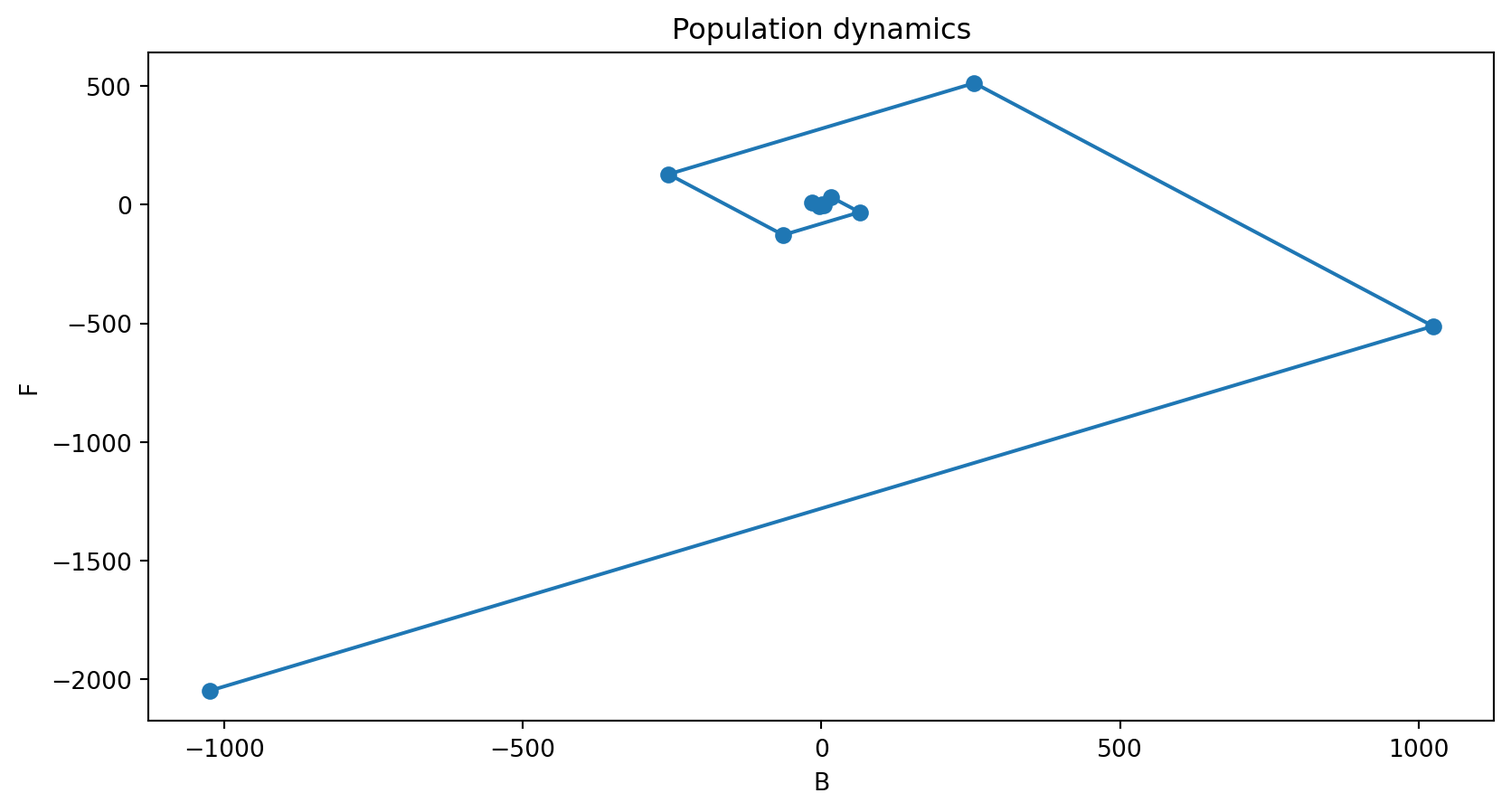
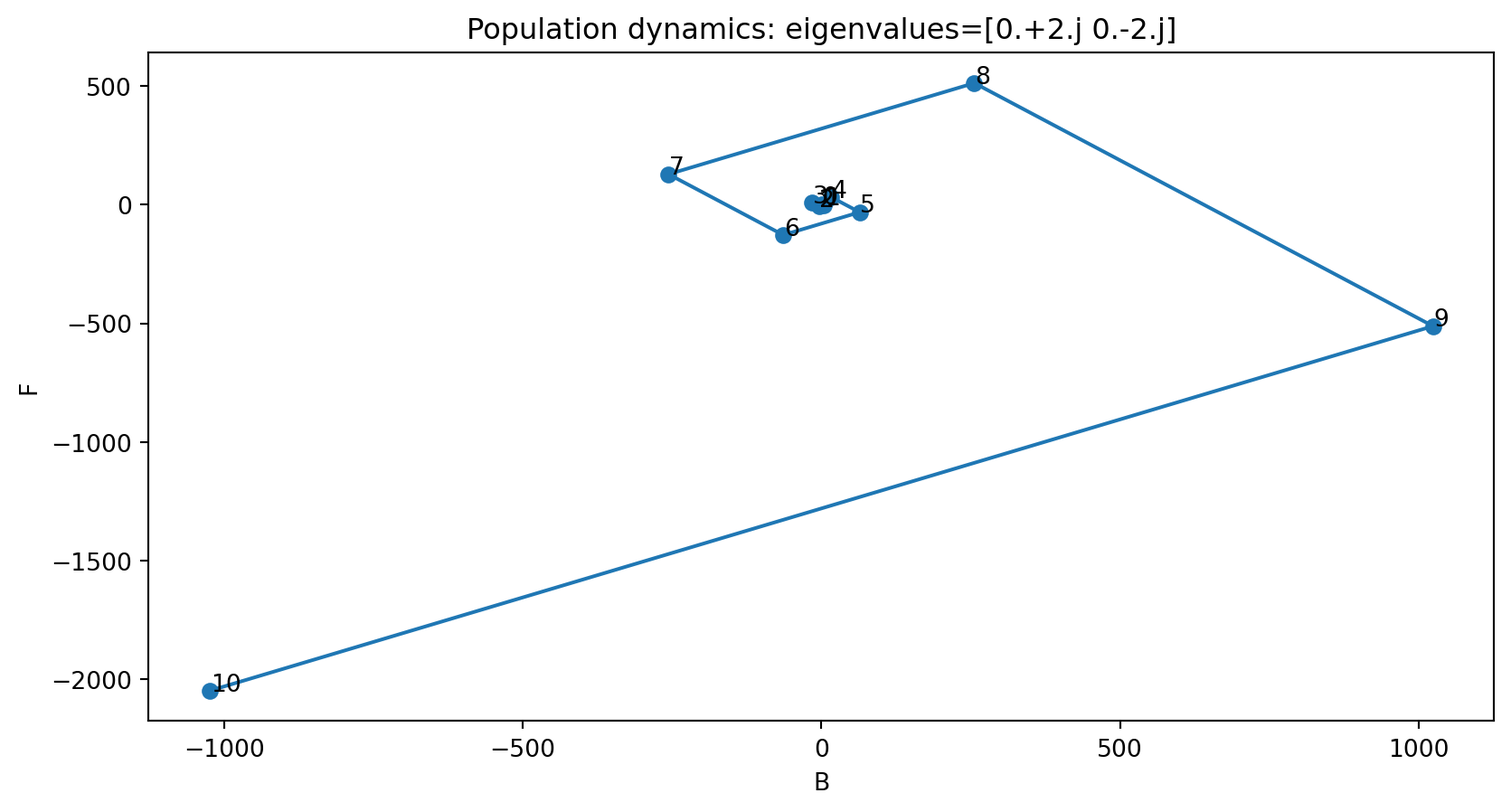
automatically committed render output

Changed region(s): [[0.3112, 0.0, 0.778, 0.0624], [0.9336, 0.3742, 0.9647, 0.4053], [0.529, 0.2183, 0.5601, 0.2494]]

diff --git a/lectures/ch5lecture1-notes.html b/lectures/ch5lecture1-notes.html
@@ -612,7 +612,7 @@
   }
 
   // Store cell data
-  globalThis.qpyodideCellDetails = [{"id":1,"options":{"out-width":"700px","context":"interactive","comment":"","output":"true","results":"markup","classes":"","out-height":"","warning":"true","fig-height":5,"message":"true","autorun":"","read-only":"false","dpi":72,"fig-width":7,"label":"","fig-cap":""},"code":"import matplotlib.pyplot as plt\nimport numpy as np\ndef plot_iterations(x0, A, n1=10, n2=1):\n  plt.clf()\n  x = x0\n  x_vals = [x]\n  for i in range(n1):\n    for j in range(n2):\n      x = A @ x\n    x_vals.append(x)\n  x_vals = np.array(x_vals)\n  plt.plot(x_vals[:,0], x_vals[:,1], 'o-',)\n  for i, txt in enumerate(range(len(x_vals))):\n    plt.annotate(txt, (x_vals[i,0]+1, x_vals[i,1]+1))\n  #plt.plot(x_vals[:,0], x_vals[:,1], 'o-')\n  plt.xlabel('B')\n  plt.ylabel('F')\n  plt.title('Population dynamics: eigenvalues='+str(np.linalg.eig(A)[0]))\n  plt.show()"},{"id":2,"options":{"out-width":"700px","context":"interactive","comment":"","output":"true","results":"markup","classes":"","out-height":"","warning":"true","fig-height":5,"message":"true","autorun":"","read-only":"false","dpi":72,"fig-width":7,"label":"","fig-cap":""},"code":"A = np.array([[0, 2], [-2, 0]])\nplot_iterations(np.array([1,2]), A)"}];
+  globalThis.qpyodideCellDetails = [{"id":1,"options":{"message":"true","read-only":"false","dpi":72,"classes":"","fig-width":7,"warning":"true","context":"interactive","output":"true","comment":"","out-height":"","fig-cap":"","fig-height":5,"autorun":"","results":"markup","out-width":"700px","label":""},"code":"import matplotlib.pyplot as plt\nimport numpy as np\ndef plot_iterations(x0, A, n1=10, n2=1):\n  plt.clf()\n  x = x0\n  x_vals = [x]\n  for i in range(n1):\n    for j in range(n2):\n      x = A @ x\n    x_vals.append(x)\n  x_vals = np.array(x_vals)\n  plt.plot(x_vals[:,0], x_vals[:,1], 'o-',)\n  for i, txt in enumerate(range(len(x_vals))):\n    plt.annotate(txt, (x_vals[i,0]+1, x_vals[i,1]+1))\n  #plt.plot(x_vals[:,0], x_vals[:,1], 'o-')\n  plt.xlabel('B')\n  plt.ylabel('F')\n  plt.title('Population dynamics: eigenvalues='+str(np.linalg.eig(A)[0]))\n  plt.show()"},{"id":2,"options":{"message":"true","read-only":"false","dpi":72,"classes":"","fig-width":7,"warning":"true","context":"interactive","output":"true","comment":"","out-height":"","fig-cap":"","fig-height":5,"autorun":"","results":"markup","out-width":"700px","label":""},"code":"A = np.array([[0, 2], [-2, 0]])\nplot_iterations(np.array([1,2]), A)"}];
 
 
   </script>
@@ -1578,7 +1578,7 @@ F_{k}
 \]</span></p>
 <div class="fragment">
 <p>Find eigenvalues and eigenvectors of the transition matrix.</p>
-<div id="6082028c" class="cell" data-execution_count="2">
+<div id="52fef861" class="cell" data-execution_count="1">
 <details open="" class="code-fold">
 <summary>Code</summary>
 <div class="sourceCode cell-code" id="cb1"><pre class="sourceCode numberSource python number-lines code-with-copy"><code class="sourceCode python"><span id="cb1-1"><a></a><span class="im">import</span> numpy <span class="im">as</span> np</span>
@@ -1599,12 +1599,12 @@ Eigenvectors: [[-0.59421716 -0.83980458]
 
 </div>
 <p>Check: use Sympy to diagonalize the matrix.</p>
-<div id="2143c019" class="cell" data-execution_count="3">
+<div id="5b41fb2f" class="cell" data-execution_count="2">
 <div class="cell-output cell-output-stdout">
 <pre><code>D : Matrix([[0.858578643762691, 0], [0, 1.14142135623731]])
 P : Matrix([[0.839804577036026, 0.635068381284203], [0.542888821389189, 0.859598960745815]])</code></pre>
 </div>
-<div class="cell-output cell-output-display cell-output-markdown" data-execution_count="2">
+<div class="cell-output cell-output-display cell-output-markdown" data-execution_count="18">
 <p><span class="math inline">\(\displaystyle \left[\begin{matrix}0.6 &amp; 0.4\\-0.35 &amp; 1.4\end{matrix}\right]\)</span></p>
 </div>
 </div>
@@ -1627,7 +1627,7 @@ P : Matrix([[0.839804577036026, 0.635068381284203], [0.542888821389189, 0.859598
 
 <section id="section-3" class="title-slide slide level2 center">
 <h2><em></em></h2>
-<div id="7dcdba87" class="cell" data-execution_count="4">
+<div id="31e0a2f8" class="cell" data-execution_count="3">
 <details open="" class="code-fold">
 <summary>Code</summary>
 <div class="sourceCode cell-code" id="cb4"><pre class="sourceCode numberSource python number-lines code-with-copy"><code class="sourceCode python"><span id="cb4-1"><a></a>x0 <span class="op">=</span> np.array([<span class="dv">100</span>, <span class="dv">10000</span>]) </span>
@@ -1660,7 +1660,7 @@ P : Matrix([[0.839804577036026, 0.635068381284203], [0.542888821389189, 0.859598
 <section id="section-4" class="title-slide slide level2 center">
 <h2><em></em></h2>
 <p>Different starting points…</p>
-<div id="22b431dc" class="cell" data-execution_count="5">
+<div id="ea1f3a9a" class="cell" data-execution_count="4">
 <details open="" class="code-fold">
 <summary>Code</summary>
 <div class="sourceCode cell-code" id="cb6"><pre class="sourceCode numberSource python number-lines code-with-copy"><code class="sourceCode python"><span id="cb6-1"><a></a>x0 <span class="op">=</span> eigvecs_sorted[<span class="dv">0</span>]<span class="op">*-</span><span class="dv">1000</span></span>
@@ -1684,7 +1684,7 @@ P : Matrix([[0.839804577036026, 0.635068381284203], [0.542888821389189, 0.859598
 <section id="section-5" class="title-slide slide level2 center">
 <h2><em></em></h2>
 <p>What if we start with the second eigenvector?</p>
-<div id="b87eed78" class="cell" data-execution_count="6">
+<div id="a1058286" class="cell" data-execution_count="5">
 <details open="" class="code-fold">
 <summary>Code</summary>
 <div class="sourceCode cell-code" id="cb8"><pre class="sourceCode numberSource python number-lines code-with-copy"><code class="sourceCode python"><span id="cb8-1"><a></a>x0 <span class="op">=</span> eigvecs_sorted[<span class="dv">1</span>]<span class="op">*-</span><span class="dv">1000</span></span>
@@ -1705,7 +1705,7 @@ P : Matrix([[0.839804577036026, 0.635068381284203], [0.542888821389189, 0.859598
 </div>
 <div class="fragment">
 <p>Looks good so far, doesn’t blow up. But if we continue (only printing results every 10 years now):</p>
-<div id="4bdbedf9" class="cell" data-execution_count="7">
+<div id="bd284d43" class="cell" data-execution_count="6">
 <details open="" class="code-fold">
 <summary>Code</summary>
 <div class="sourceCode cell-code" id="cb10"><pre class="sourceCode numberSource python number-lines code-with-copy"><code class="sourceCode python"><span id="cb10-1"><a></a>x0 <span class="op">=</span> eigvecs_sorted[<span class="dv">1</span>]<span class="op">*-</span><span class="dv">1000</span></span>
@@ -1740,7 +1740,7 @@ P : Matrix([[0.839804577036026, 0.635068381284203], [0.542888821389189, 0.859598
 \end{array}\right]
 \]</span></p>
 <div class="fragment">
-<div id="203aa60f" class="cell" data-execution_count="8">
+<div id="53bef8e2" class="cell" data-execution_count="7">
 <details open="" class="code-fold">
 <summary>Code</summary>
 <div class="sourceCode cell-code" id="cb12"><pre class="sourceCode numberSource python number-lines code-with-copy"><code class="sourceCode python"><span id="cb12-1"><a></a>A <span class="op">=</span> np.array([[<span class="dv">0</span>, <span class="dv">2</span>], [<span class="op">-</span><span class="dv">2</span>, <span class="dv">0</span>]])</span>
@@ -1770,26 +1770,30 @@ Eigenvectors: [[0.        -0.70710678j 0.        +0.70710678j]
 </div>
 <div class="fragment">
 <p>Let’s plot that…</p>
-<div id="b4c206b1" class="cell" data-fig="true" data-execution_count="9">
+<div id="924fcef8" class="cell" data-fig="true" data-execution_count="8">
 <details open="" class="code-fold">
 <summary>Code</summary>
 <div class="sourceCode cell-code" id="cb14"><pre class="sourceCode numberSource python number-lines code-with-copy"><code class="sourceCode python"><span id="cb14-1"><a></a><span class="im">import</span> matplotlib.pyplot <span class="im">as</span> plt</span>
 <span id="cb14-2"><a></a></span>
 <span id="cb14-3"><a></a><span class="kw">def</span> plot_iterations(x0, A, n1<span class="op">=</span><span class="dv">10</span>, n2<span class="op">=</span><span class="dv">1</span>):</span>
-<span id="cb14-4"><a></a>  x <span class="op">=</span> x0</span>
-<span id="cb14-5"><a></a>  x_vals <span class="op">=</span> [x]</span>
-<span id="cb14-6"><a></a>  <span class="cf">for</span> i <span class="kw">in</span> <span class="bu">range</span>(n1):</span>
-<span id="cb14-7"><a></a>    <span class="cf">for</span> j <span class="kw">in</span> <span class="bu">range</span>(n2):</span>
-<span id="cb14-8"><a></a>      x <span class="op">=</span> A <span class="op">@</span> x</span>
-<span id="cb14-9"><a></a>    x_vals.append(x)</span>
-<span id="cb14-10"><a></a>  x_vals <span class="op">=</span> np.array(x_vals)</span>
-<span id="cb14-11"><a></a>  plt.plot(x_vals[:,<span class="dv">0</span>], x_vals[:,<span class="dv">1</span>], <span class="st">'o-'</span>)</span>
-<span id="cb14-12"><a></a>  plt.xlabel(<span class="st">'B'</span>)</span>
-<span id="cb14-13"><a></a>  plt.ylabel(<span class="st">'F'</span>)</span>
-<span id="cb14-14"><a></a>  plt.title(<span class="st">'Population dynamics'</span>)</span>
-<span id="cb14-15"><a></a>  plt.show()</span>
-<span id="cb14-16"><a></a></span>
-<span id="cb14-17"><a></a>plot_iterations(np.array([<span class="dv">1</span>,<span class="dv">2</span>]), A)</span></code><button title="Copy to Clipboard" class="code-copy-button"><i class="bi"></i></button></pre></div>
+<span id="cb14-4"><a></a>  plt.clf()</span>
+<span id="cb14-5"><a></a>  x <span class="op">=</span> x0</span>
+<span id="cb14-6"><a></a>  x_vals <span class="op">=</span> [x]</span>
+<span id="cb14-7"><a></a>  <span class="cf">for</span> i <span class="kw">in</span> <span class="bu">range</span>(n1):</span>
+<span id="cb14-8"><a></a>    <span class="cf">for</span> j <span class="kw">in</span> <span class="bu">range</span>(n2):</span>
+<span id="cb14-9"><a></a>      x <span class="op">=</span> A <span class="op">@</span> x</span>
+<span id="cb14-10"><a></a>    x_vals.append(x)</span>
+<span id="cb14-11"><a></a>  x_vals <span class="op">=</span> np.array(x_vals)</span>
+<span id="cb14-12"><a></a>  plt.plot(x_vals[:,<span class="dv">0</span>], x_vals[:,<span class="dv">1</span>], <span class="st">'o-'</span>,)</span>
+<span id="cb14-13"><a></a>  <span class="cf">for</span> i, txt <span class="kw">in</span> <span class="bu">enumerate</span>(<span class="bu">range</span>(<span class="bu">len</span>(x_vals))):</span>
+<span id="cb14-14"><a></a>    plt.annotate(txt, (x_vals[i,<span class="dv">0</span>]<span class="op">+</span><span class="dv">1</span>, x_vals[i,<span class="dv">1</span>]<span class="op">+</span><span class="dv">1</span>))</span>
+<span id="cb14-15"><a></a>  <span class="co">#plt.plot(x_vals[:,0], x_vals[:,1], 'o-')</span></span>
+<span id="cb14-16"><a></a>  plt.xlabel(<span class="st">'B'</span>)</span>
+<span id="cb14-17"><a></a>  plt.ylabel(<span class="st">'F'</span>)</span>
+<span id="cb14-18"><a></a>  plt.title(<span class="st">'Population dynamics: eigenvalues='</span><span class="op">+</span><span class="bu">str</span>(np.linalg.eig(A)[<span class="dv">0</span>]))</span>
+<span id="cb14-19"><a></a>  plt.show()</span>
+<span id="cb14-20"><a></a></span>
+<span id="cb14-21"><a></a>plot_iterations(np.array([<span class="dv">1</span>,<span class="dv">2</span>]), A)</span></code><button title="Copy to Clipboard" class="code-copy-button"><i class="bi"></i></button></pre></div>
 </details>
 <div class="cell-output cell-output-display">
 <div>
@@ -2851,7 +2855,7 @@ Eigenvectors: [[0.        -0.70710678j 0.        +0.70710678j]
         }
       );
     </script>
-    <script>var lightboxQuarto = GLightbox({"openEffect":"zoom","loop":false,"descPosition":"bottom","selector":".lightbox","closeEffect":"zoom"});
+    <script>var lightboxQuarto = GLightbox({"closeEffect":"zoom","loop":false,"selector":".lightbox","openEffect":"zoom","descPosition":"bottom"});
     window.onload = () => {
       lightboxQuarto.on('slide_before_load', (data) => {
         const { slideIndex, slideNode, slideConfig, player, trigger } = data;

diff --git a/lectures/ch5lecture1-speaker.html b/lectures/ch5lecture1-speaker.html
@@ -612,7 +612,7 @@
   }
 
   // Store cell data
-  globalThis.qpyodideCellDetails = [{"id":1,"options":{"out-width":"700px","context":"interactive","comment":"","output":"true","results":"markup","classes":"","out-height":"","warning":"true","fig-height":5,"message":"true","autorun":"","read-only":"false","dpi":72,"fig-width":7,"label":"","fig-cap":""},"code":"import matplotlib.pyplot as plt\nimport numpy as np\ndef plot_iterations(x0, A, n1=10, n2=1):\n  plt.clf()\n  x = x0\n  x_vals = [x]\n  for i in range(n1):\n    for j in range(n2):\n      x = A @ x\n    x_vals.append(x)\n  x_vals = np.array(x_vals)\n  plt.plot(x_vals[:,0], x_vals[:,1], 'o-',)\n  for i, txt in enumerate(range(len(x_vals))):\n    plt.annotate(txt, (x_vals[i,0]+1, x_vals[i,1]+1))\n  #plt.plot(x_vals[:,0], x_vals[:,1], 'o-')\n  plt.xlabel('B')\n  plt.ylabel('F')\n  plt.title('Population dynamics: eigenvalues='+str(np.linalg.eig(A)[0]))\n  plt.show()"},{"id":2,"options":{"out-width":"700px","context":"interactive","comment":"","output":"true","results":"markup","classes":"","out-height":"","warning":"true","fig-height":5,"message":"true","autorun":"","read-only":"false","dpi":72,"fig-width":7,"label":"","fig-cap":""},"code":"A = np.array([[0, 2], [-2, 0]])\nplot_iterations(np.array([1,2]), A)"}];
+  globalThis.qpyodideCellDetails = [{"id":1,"options":{"message":"true","read-only":"false","dpi":72,"classes":"","fig-width":7,"warning":"true","context":"interactive","output":"true","comment":"","out-height":"","fig-cap":"","fig-height":5,"autorun":"","results":"markup","out-width":"700px","label":""},"code":"import matplotlib.pyplot as plt\nimport numpy as np\ndef plot_iterations(x0, A, n1=10, n2=1):\n  plt.clf()\n  x = x0\n  x_vals = [x]\n  for i in range(n1):\n    for j in range(n2):\n      x = A @ x\n    x_vals.append(x)\n  x_vals = np.array(x_vals)\n  plt.plot(x_vals[:,0], x_vals[:,1], 'o-',)\n  for i, txt in enumerate(range(len(x_vals))):\n    plt.annotate(txt, (x_vals[i,0]+1, x_vals[i,1]+1))\n  #plt.plot(x_vals[:,0], x_vals[:,1], 'o-')\n  plt.xlabel('B')\n  plt.ylabel('F')\n  plt.title('Population dynamics: eigenvalues='+str(np.linalg.eig(A)[0]))\n  plt.show()"},{"id":2,"options":{"message":"true","read-only":"false","dpi":72,"classes":"","fig-width":7,"warning":"true","context":"interactive","output":"true","comment":"","out-height":"","fig-cap":"","fig-height":5,"autorun":"","results":"markup","out-width":"700px","label":""},"code":"A = np.array([[0, 2], [-2, 0]])\nplot_iterations(np.array([1,2]), A)"}];
 
 
   </script>
@@ -1578,7 +1578,7 @@ F_{k}
 \]</span></p>
 <div class="fragment">
 <p>Find eigenvalues and eigenvectors of the transition matrix.</p>
-<div id="6082028c" class="cell" data-execution_count="2">
+<div id="52fef861" class="cell" data-execution_count="1">
 <details open="" class="code-fold">
 <summary>Code</summary>
 <div class="sourceCode cell-code" id="cb1"><pre class="sourceCode numberSource python number-lines code-with-copy"><code class="sourceCode python"><span id="cb1-1"><a></a><span class="im">import</span> numpy <span class="im">as</span> np</span>
@@ -1599,12 +1599,12 @@ Eigenvectors: [[-0.59421716 -0.83980458]
 
 </div>
 <p>Check: use Sympy to diagonalize the matrix.</p>
-<div id="2143c019" class="cell" data-execution_count="3">
+<div id="5b41fb2f" class="cell" data-execution_count="2">
 <div class="cell-output cell-output-stdout">
 <pre><code>D : Matrix([[0.858578643762691, 0], [0, 1.14142135623731]])
 P : Matrix([[0.839804577036026, 0.635068381284203], [0.542888821389189, 0.859598960745815]])</code></pre>
 </div>
-<div class="cell-output cell-output-display cell-output-markdown" data-execution_count="2">
+<div class="cell-output cell-output-display cell-output-markdown" data-execution_count="18">
 <p><span class="math inline">\(\displaystyle \left[\begin{matrix}0.6 &amp; 0.4\\-0.35 &amp; 1.4\end{matrix}\right]\)</span></p>
 </div>
 </div>
@@ -1627,7 +1627,7 @@ P : Matrix([[0.839804577036026, 0.635068381284203], [0.542888821389189, 0.859598
 
 <section id="section-3" class="title-slide slide level2 center">
 <h2><em></em></h2>
-<div id="7dcdba87" class="cell" data-execution_count="4">
+<div id="31e0a2f8" class="cell" data-execution_count="3">
 <details open="" class="code-fold">
 <summary>Code</summary>
 <div class="sourceCode cell-code" id="cb4"><pre class="sourceCode numberSource python number-lines code-with-copy"><code class="sourceCode python"><span id="cb4-1"><a></a>x0 <span class="op">=</span> np.array([<span class="dv">100</span>, <span class="dv">10000</span>]) </span>
@@ -1660,7 +1660,7 @@ P : Matrix([[0.839804577036026, 0.635068381284203], [0.542888821389189, 0.859598
 <section id="section-4" class="title-slide slide level2 center">
 <h2><em></em></h2>
 <p>Different starting points…</p>
-<div id="22b431dc" class="cell" data-execution_count="5">
+<div id="ea1f3a9a" class="cell" data-execution_count="4">
 <details open="" class="code-fold">
 <summary>Code</summary>
 <div class="sourceCode cell-code" id="cb6"><pre class="sourceCode numberSource python number-lines code-with-copy"><code class="sourceCode python"><span id="cb6-1"><a></a>x0 <span class="op">=</span> eigvecs_sorted[<span class="dv">0</span>]<span class="op">*-</span><span class="dv">1000</span></span>
@@ -1684,7 +1684,7 @@ P : Matrix([[0.839804577036026, 0.635068381284203], [0.542888821389189, 0.859598
 <section id="section-5" class="title-slide slide level2 center">
 <h2><em></em></h2>
 <p>What if we start with the second eigenvector?</p>
-<div id="b87eed78" class="cell" data-execution_count="6">
+<div id="a1058286" class="cell" data-execution_count="5">
 <details open="" class="code-fold">
 <summary>Code</summary>
 <div class="sourceCode cell-code" id="cb8"><pre class="sourceCode numberSource python number-lines code-with-copy"><code class="sourceCode python"><span id="cb8-1"><a></a>x0 <span class="op">=</span> eigvecs_sorted[<span class="dv">1</span>]<span class="op">*-</span><span class="dv">1000</span></span>
@@ -1705,7 +1705,7 @@ P : Matrix([[0.839804577036026, 0.635068381284203], [0.542888821389189, 0.859598
 </div>
 <div class="fragment">
 <p>Looks good so far, doesn’t blow up. But if we continue (only printing results every 10 years now):</p>
-<div id="4bdbedf9" class="cell" data-execution_count="7">
+<div id="bd284d43" class="cell" data-execution_count="6">
 <details open="" class="code-fold">
 <summary>Code</summary>
 <div class="sourceCode cell-code" id="cb10"><pre class="sourceCode numberSource python number-lines code-with-copy"><code class="sourceCode python"><span id="cb10-1"><a></a>x0 <span class="op">=</span> eigvecs_sorted[<span class="dv">1</span>]<span class="op">*-</span><span class="dv">1000</span></span>
@@ -1740,7 +1740,7 @@ P : Matrix([[0.839804577036026, 0.635068381284203], [0.542888821389189, 0.859598
 \end{array}\right]
 \]</span></p>
 <div class="fragment">
-<div id="203aa60f" class="cell" data-execution_count="8">
+<div id="53bef8e2" class="cell" data-execution_count="7">
 <details open="" class="code-fold">
 <summary>Code</summary>
 <div class="sourceCode cell-code" id="cb12"><pre class="sourceCode numberSource python number-lines code-with-copy"><code class="sourceCode python"><span id="cb12-1"><a></a>A <span class="op">=</span> np.array([[<span class="dv">0</span>, <span class="dv">2</span>], [<span class="op">-</span><span class="dv">2</span>, <span class="dv">0</span>]])</span>
@@ -1770,26 +1770,30 @@ Eigenvectors: [[0.        -0.70710678j 0.        +0.70710678j]
 </div>
 <div class="fragment">
 <p>Let’s plot that…</p>
-<div id="b4c206b1" class="cell" data-fig="true" data-execution_count="9">
+<div id="924fcef8" class="cell" data-fig="true" data-execution_count="8">
 <details open="" class="code-fold">
 <summary>Code</summary>
 <div class="sourceCode cell-code" id="cb14"><pre class="sourceCode numberSource python number-lines code-with-copy"><code class="sourceCode python"><span id="cb14-1"><a></a><span class="im">import</span> matplotlib.pyplot <span class="im">as</span> plt</span>
 <span id="cb14-2"><a></a></span>
 <span id="cb14-3"><a></a><span class="kw">def</span> plot_iterations(x0, A, n1<span class="op">=</span><span class="dv">10</span>, n2<span class="op">=</span><span class="dv">1</span>):</span>
-<span id="cb14-4"><a></a>  x <span class="op">=</span> x0</span>
-<span id="cb14-5"><a></a>  x_vals <span class="op">=</span> [x]</span>
-<span id="cb14-6"><a></a>  <span class="cf">for</span> i <span class="kw">in</span> <span class="bu">range</span>(n1):</span>
-<span id="cb14-7"><a></a>    <span class="cf">for</span> j <span class="kw">in</span> <span class="bu">range</span>(n2):</span>
-<span id="cb14-8"><a></a>      x <span class="op">=</span> A <span class="op">@</span> x</span>
-<span id="cb14-9"><a></a>    x_vals.append(x)</span>
-<span id="cb14-10"><a></a>  x_vals <span class="op">=</span> np.array(x_vals)</span>
-<span id="cb14-11"><a></a>  plt.plot(x_vals[:,<span class="dv">0</span>], x_vals[:,<span class="dv">1</span>], <span class="st">'o-'</span>)</span>
-<span id="cb14-12"><a></a>  plt.xlabel(<span class="st">'B'</span>)</span>
-<span id="cb14-13"><a></a>  plt.ylabel(<span class="st">'F'</span>)</span>
-<span id="cb14-14"><a></a>  plt.title(<span class="st">'Population dynamics'</span>)</span>
-<span id="cb14-15"><a></a>  plt.show()</span>
-<span id="cb14-16"><a></a></span>
-<span id="cb14-17"><a></a>plot_iterations(np.array([<span class="dv">1</span>,<span class="dv">2</span>]), A)</span></code><button title="Copy to Clipboard" class="code-copy-button"><i class="bi"></i></button></pre></div>
+<span id="cb14-4"><a></a>  plt.clf()</span>
+<span id="cb14-5"><a></a>  x <span class="op">=</span> x0</span>
+<span id="cb14-6"><a></a>  x_vals <span class="op">=</span> [x]</span>
+<span id="cb14-7"><a></a>  <span class="cf">for</span> i <span class="kw">in</span> <span class="bu">range</span>(n1):</span>
+<span id="cb14-8"><a></a>    <span class="cf">for</span> j <span class="kw">in</span> <span class="bu">range</span>(n2):</span>
+<span id="cb14-9"><a></a>      x <span class="op">=</span> A <span class="op">@</span> x</span>
+<span id="cb14-10"><a></a>    x_vals.append(x)</span>
+<span id="cb14-11"><a></a>  x_vals <span class="op">=</span> np.array(x_vals)</span>
+<span id="cb14-12"><a></a>  plt.plot(x_vals[:,<span class="dv">0</span>], x_vals[:,<span class="dv">1</span>], <span class="st">'o-'</span>,)</span>
+<span id="cb14-13"><a></a>  <span class="cf">for</span> i, txt <span class="kw">in</span> <span class="bu">enumerate</span>(<span class="bu">range</span>(<span class="bu">len</span>(x_vals))):</span>
+<span id="cb14-14"><a></a>    plt.annotate(txt, (x_vals[i,<span class="dv">0</span>]<span class="op">+</span><span class="dv">1</span>, x_vals[i,<span class="dv">1</span>]<span class="op">+</span><span class="dv">1</span>))</span>
+<span id="cb14-15"><a></a>  <span class="co">#plt.plot(x_vals[:,0], x_vals[:,1], 'o-')</span></span>
+<span id="cb14-16"><a></a>  plt.xlabel(<span class="st">'B'</span>)</span>
+<span id="cb14-17"><a></a>  plt.ylabel(<span class="st">'F'</span>)</span>
+<span id="cb14-18"><a></a>  plt.title(<span class="st">'Population dynamics: eigenvalues='</span><span class="op">+</span><span class="bu">str</span>(np.linalg.eig(A)[<span class="dv">0</span>]))</span>
+<span id="cb14-19"><a></a>  plt.show()</span>
+<span id="cb14-20"><a></a></span>
+<span id="cb14-21"><a></a>plot_iterations(np.array([<span class="dv">1</span>,<span class="dv">2</span>]), A)</span></code><button title="Copy to Clipboard" class="code-copy-button"><i class="bi"></i></button></pre></div>
 </details>
 <div class="cell-output cell-output-display">
 <div>
@@ -2851,7 +2855,7 @@ Eigenvectors: [[0.        -0.70710678j 0.        +0.70710678j]
         }
       );
     </script>
-    <script>var lightboxQuarto = GLightbox({"openEffect":"zoom","loop":false,"descPosition":"bottom","selector":".lightbox","closeEffect":"zoom"});
+    <script>var lightboxQuarto = GLightbox({"closeEffect":"zoom","loop":false,"selector":".lightbox","openEffect":"zoom","descPosition":"bottom"});
     window.onload = () => {
       lightboxQuarto.on('slide_before_load', (data) => {
         const { slideIndex, slideNode, slideConfig, player, trigger } = data;

diff --git a/lectures/ch5lecture1.html b/lectures/ch5lecture1.html
@@ -612,7 +612,7 @@
   }
 
   // Store cell data
-  globalThis.qpyodideCellDetails = [{"id":1,"options":{"out-width":"700px","context":"interactive","comment":"","output":"true","results":"markup","classes":"","out-height":"","warning":"true","fig-height":5,"message":"true","autorun":"","read-only":"false","dpi":72,"fig-width":7,"label":"","fig-cap":""},"code":"import matplotlib.pyplot as plt\nimport numpy as np\ndef plot_iterations(x0, A, n1=10, n2=1):\n  plt.clf()\n  x = x0\n  x_vals = [x]\n  for i in range(n1):\n    for j in range(n2):\n      x = A @ x\n    x_vals.append(x)\n  x_vals = np.array(x_vals)\n  plt.plot(x_vals[:,0], x_vals[:,1], 'o-',)\n  for i, txt in enumerate(range(len(x_vals))):\n    plt.annotate(txt, (x_vals[i,0]+1, x_vals[i,1]+1))\n  #plt.plot(x_vals[:,0], x_vals[:,1], 'o-')\n  plt.xlabel('B')\n  plt.ylabel('F')\n  plt.title('Population dynamics: eigenvalues='+str(np.linalg.eig(A)[0]))\n  plt.show()"},{"id":2,"options":{"out-width":"700px","context":"interactive","comment":"","output":"true","results":"markup","classes":"","out-height":"","warning":"true","fig-height":5,"message":"true","autorun":"","read-only":"false","dpi":72,"fig-width":7,"label":"","fig-cap":""},"code":"A = np.array([[0, 2], [-2, 0]])\nplot_iterations(np.array([1,2]), A)"}];
+  globalThis.qpyodideCellDetails = [{"id":1,"options":{"message":"true","read-only":"false","dpi":72,"classes":"","fig-width":7,"warning":"true","context":"interactive","output":"true","comment":"","out-height":"","fig-cap":"","fig-height":5,"autorun":"","results":"markup","out-width":"700px","label":""},"code":"import matplotlib.pyplot as plt\nimport numpy as np\ndef plot_iterations(x0, A, n1=10, n2=1):\n  plt.clf()\n  x = x0\n  x_vals = [x]\n  for i in range(n1):\n    for j in range(n2):\n      x = A @ x\n    x_vals.append(x)\n  x_vals = np.array(x_vals)\n  plt.plot(x_vals[:,0], x_vals[:,1], 'o-',)\n  for i, txt in enumerate(range(len(x_vals))):\n    plt.annotate(txt, (x_vals[i,0]+1, x_vals[i,1]+1))\n  #plt.plot(x_vals[:,0], x_vals[:,1], 'o-')\n  plt.xlabel('B')\n  plt.ylabel('F')\n  plt.title('Population dynamics: eigenvalues='+str(np.linalg.eig(A)[0]))\n  plt.show()"},{"id":2,"options":{"message":"true","read-only":"false","dpi":72,"classes":"","fig-width":7,"warning":"true","context":"interactive","output":"true","comment":"","out-height":"","fig-cap":"","fig-height":5,"autorun":"","results":"markup","out-width":"700px","label":""},"code":"A = np.array([[0, 2], [-2, 0]])\nplot_iterations(np.array([1,2]), A)"}];
 
 
   </script>
@@ -1578,7 +1578,7 @@ F_{k}
 \]</span></p>
 <div class="fragment">
 <p>Find eigenvalues and eigenvectors of the transition matrix.</p>
-<div id="6082028c" class="cell" data-execution_count="2">
+<div id="52fef861" class="cell" data-execution_count="1">
 <details open="" class="code-fold">
 <summary>Code</summary>
 <div class="sourceCode cell-code" id="cb1"><pre class="sourceCode numberSource python number-lines code-with-copy"><code class="sourceCode python"><span id="cb1-1"><a></a><span class="im">import</span> numpy <span class="im">as</span> np</span>
@@ -1599,12 +1599,12 @@ Eigenvectors: [[-0.59421716 -0.83980458]
 
 </div>
 <p>Check: use Sympy to diagonalize the matrix.</p>
-<div id="2143c019" class="cell" data-execution_count="3">
+<div id="5b41fb2f" class="cell" data-execution_count="2">
 <div class="cell-output cell-output-stdout">
 <pre><code>D : Matrix([[0.858578643762691, 0], [0, 1.14142135623731]])
 P : Matrix([[0.839804577036026, 0.635068381284203], [0.542888821389189, 0.859598960745815]])</code></pre>
 </div>
-<div class="cell-output cell-output-display cell-output-markdown" data-execution_count="2">
+<div class="cell-output cell-output-display cell-output-markdown" data-execution_count="18">
 <p><span class="math inline">\(\displaystyle \left[\begin{matrix}0.6 &amp; 0.4\\-0.35 &amp; 1.4\end{matrix}\right]\)</span></p>
 </div>
 </div>
@@ -1627,7 +1627,7 @@ P : Matrix([[0.839804577036026, 0.635068381284203], [0.542888821389189, 0.859598
 
 <section id="section-3" class="title-slide slide level2 center">
 <h2><em></em></h2>
-<div id="7dcdba87" class="cell" data-execution_count="4">
+<div id="31e0a2f8" class="cell" data-execution_count="3">
 <details open="" class="code-fold">
 <summary>Code</summary>
 <div class="sourceCode cell-code" id="cb4"><pre class="sourceCode numberSource python number-lines code-with-copy"><code class="sourceCode python"><span id="cb4-1"><a></a>x0 <span class="op">=</span> np.array([<span class="dv">100</span>, <span class="dv">10000</span>]) </span>
@@ -1660,7 +1660,7 @@ P : Matrix([[0.839804577036026, 0.635068381284203], [0.542888821389189, 0.859598
 <section id="section-4" class="title-slide slide level2 center">
 <h2><em></em></h2>
 <p>Different starting points…</p>
-<div id="22b431dc" class="cell" data-execution_count="5">
+<div id="ea1f3a9a" class="cell" data-execution_count="4">
 <details open="" class="code-fold">
 <summary>Code</summary>
 <div class="sourceCode cell-code" id="cb6"><pre class="sourceCode numberSource python number-lines code-with-copy"><code class="sourceCode python"><span id="cb6-1"><a></a>x0 <span class="op">=</span> eigvecs_sorted[<span class="dv">0</span>]<span class="op">*-</span><span class="dv">1000</span></span>
@@ -1684,7 +1684,7 @@ P : Matrix([[0.839804577036026, 0.635068381284203], [0.542888821389189, 0.859598
 <section id="section-5" class="title-slide slide level2 center">
 <h2><em></em></h2>
 <p>What if we start with the second eigenvector?</p>
-<div id="b87eed78" class="cell" data-execution_count="6">
+<div id="a1058286" class="cell" data-execution_count="5">
 <details open="" class="code-fold">
 <summary>Code</summary>
 <div class="sourceCode cell-code" id="cb8"><pre class="sourceCode numberSource python number-lines code-with-copy"><code class="sourceCode python"><span id="cb8-1"><a></a>x0 <span class="op">=</span> eigvecs_sorted[<span class="dv">1</span>]<span class="op">*-</span><span class="dv">1000</span></span>
@@ -1705,7 +1705,7 @@ P : Matrix([[0.839804577036026, 0.635068381284203], [0.542888821389189, 0.859598
 </div>
 <div class="fragment">
 <p>Looks good so far, doesn’t blow up. But if we continue (only printing results every 10 years now):</p>
-<div id="4bdbedf9" class="cell" data-execution_count="7">
+<div id="bd284d43" class="cell" data-execution_count="6">
 <details open="" class="code-fold">
 <summary>Code</summary>
 <div class="sourceCode cell-code" id="cb10"><pre class="sourceCode numberSource python number-lines code-with-copy"><code class="sourceCode python"><span id="cb10-1"><a></a>x0 <span class="op">=</span> eigvecs_sorted[<span class="dv">1</span>]<span class="op">*-</span><span class="dv">1000</span></span>
@@ -1740,7 +1740,7 @@ P : Matrix([[0.839804577036026, 0.635068381284203], [0.542888821389189, 0.859598
 \end{array}\right]
 \]</span></p>
 <div class="fragment">
-<div id="203aa60f" class="cell" data-execution_count="8">
+<div id="53bef8e2" class="cell" data-execution_count="7">
 <details open="" class="code-fold">
 <summary>Code</summary>
 <div class="sourceCode cell-code" id="cb12"><pre class="sourceCode numberSource python number-lines code-with-copy"><code class="sourceCode python"><span id="cb12-1"><a></a>A <span class="op">=</span> np.array([[<span class="dv">0</span>, <span class="dv">2</span>], [<span class="op">-</span><span class="dv">2</span>, <span class="dv">0</span>]])</span>
@@ -1770,26 +1770,30 @@ Eigenvectors: [[0.        -0.70710678j 0.        +0.70710678j]
 </div>
 <div class="fragment">
 <p>Let’s plot that…</p>
-<div id="b4c206b1" class="cell" data-fig="true" data-execution_count="9">
+<div id="924fcef8" class="cell" data-fig="true" data-execution_count="8">
 <details open="" class="code-fold">
 <summary>Code</summary>
 <div class="sourceCode cell-code" id="cb14"><pre class="sourceCode numberSource python number-lines code-with-copy"><code class="sourceCode python"><span id="cb14-1"><a></a><span class="im">import</span> matplotlib.pyplot <span class="im">as</span> plt</span>
 <span id="cb14-2"><a></a></span>
 <span id="cb14-3"><a></a><span class="kw">def</span> plot_iterations(x0, A, n1<span class="op">=</span><span class="dv">10</span>, n2<span class="op">=</span><span class="dv">1</span>):</span>
-<span id="cb14-4"><a></a>  x <span class="op">=</span> x0</span>
-<span id="cb14-5"><a></a>  x_vals <span class="op">=</span> [x]</span>
-<span id="cb14-6"><a></a>  <span class="cf">for</span> i <span class="kw">in</span> <span class="bu">range</span>(n1):</span>
-<span id="cb14-7"><a></a>    <span class="cf">for</span> j <span class="kw">in</span> <span class="bu">range</span>(n2):</span>
-<span id="cb14-8"><a></a>      x <span class="op">=</span> A <span class="op">@</span> x</span>
-<span id="cb14-9"><a></a>    x_vals.append(x)</span>
-<span id="cb14-10"><a></a>  x_vals <span class="op">=</span> np.array(x_vals)</span>
-<span id="cb14-11"><a></a>  plt.plot(x_vals[:,<span class="dv">0</span>], x_vals[:,<span class="dv">1</span>], <span class="st">'o-'</span>)</span>
-<span id="cb14-12"><a></a>  plt.xlabel(<span class="st">'B'</span>)</span>
-<span id="cb14-13"><a></a>  plt.ylabel(<span class="st">'F'</span>)</span>
-<span id="cb14-14"><a></a>  plt.title(<span class="st">'Population dynamics'</span>)</span>
-<span id="cb14-15"><a></a>  plt.show()</span>
-<span id="cb14-16"><a></a></span>
-<span id="cb14-17"><a></a>plot_iterations(np.array([<span class="dv">1</span>,<span class="dv">2</span>]), A)</span></code><button title="Copy to Clipboard" class="code-copy-button"><i class="bi"></i></button></pre></div>
+<span id="cb14-4"><a></a>  plt.clf()</span>
+<span id="cb14-5"><a></a>  x <span class="op">=</span> x0</span>
+<span id="cb14-6"><a></a>  x_vals <span class="op">=</span> [x]</span>
+<span id="cb14-7"><a></a>  <span class="cf">for</span> i <span class="kw">in</span> <span class="bu">range</span>(n1):</span>
+<span id="cb14-8"><a></a>    <span class="cf">for</span> j <span class="kw">in</span> <span class="bu">range</span>(n2):</span>
+<span id="cb14-9"><a></a>      x <span class="op">=</span> A <span class="op">@</span> x</span>
+<span id="cb14-10"><a></a>    x_vals.append(x)</span>
+<span id="cb14-11"><a></a>  x_vals <span class="op">=</span> np.array(x_vals)</span>
+<span id="cb14-12"><a></a>  plt.plot(x_vals[:,<span class="dv">0</span>], x_vals[:,<span class="dv">1</span>], <span class="st">'o-'</span>,)</span>
+<span id="cb14-13"><a></a>  <span class="cf">for</span> i, txt <span class="kw">in</span> <span class="bu">enumerate</span>(<span class="bu">range</span>(<span class="bu">len</span>(x_vals))):</span>
+<span id="cb14-14"><a></a>    plt.annotate(txt, (x_vals[i,<span class="dv">0</span>]<span class="op">+</span><span class="dv">1</span>, x_vals[i,<span class="dv">1</span>]<span class="op">+</span><span class="dv">1</span>))</span>
+<span id="cb14-15"><a></a>  <span class="co">#plt.plot(x_vals[:,0], x_vals[:,1], 'o-')</span></span>
+<span id="cb14-16"><a></a>  plt.xlabel(<span class="st">'B'</span>)</span>
+<span id="cb14-17"><a></a>  plt.ylabel(<span class="st">'F'</span>)</span>
+<span id="cb14-18"><a></a>  plt.title(<span class="st">'Population dynamics: eigenvalues='</span><span class="op">+</span><span class="bu">str</span>(np.linalg.eig(A)[<span class="dv">0</span>]))</span>
+<span id="cb14-19"><a></a>  plt.show()</span>
+<span id="cb14-20"><a></a></span>
+<span id="cb14-21"><a></a>plot_iterations(np.array([<span class="dv">1</span>,<span class="dv">2</span>]), A)</span></code><button title="Copy to Clipboard" class="code-copy-button"><i class="bi"></i></button></pre></div>
 </details>
 <div class="cell-output cell-output-display">
 <div>
@@ -2851,7 +2855,7 @@ Eigenvectors: [[0.        -0.70710678j 0.        +0.70710678j]
         }
       );
     </script>
-    <script>var lightboxQuarto = GLightbox({"openEffect":"zoom","loop":false,"descPosition":"bottom","selector":".lightbox","closeEffect":"zoom"});
+    <script>var lightboxQuarto = GLightbox({"closeEffect":"zoom","loop":false,"selector":".lightbox","openEffect":"zoom","descPosition":"bottom"});
     window.onload = () => {
       lightboxQuarto.on('slide_before_load', (data) => {
         const { slideIndex, slideNode, slideConfig, player, trigger } = data;
